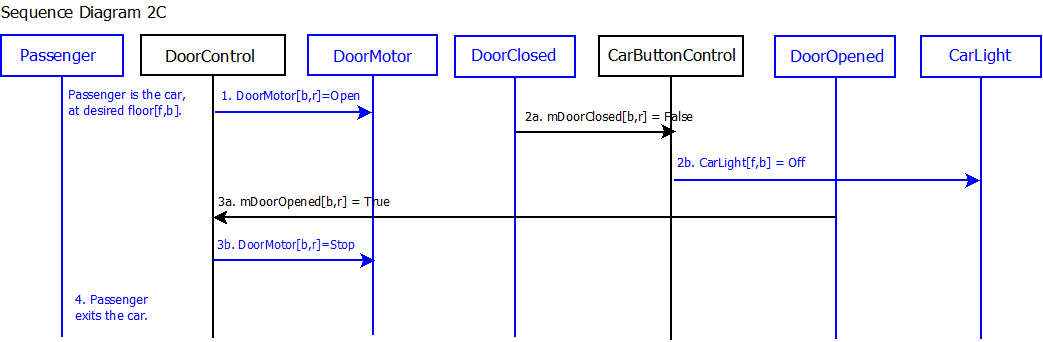
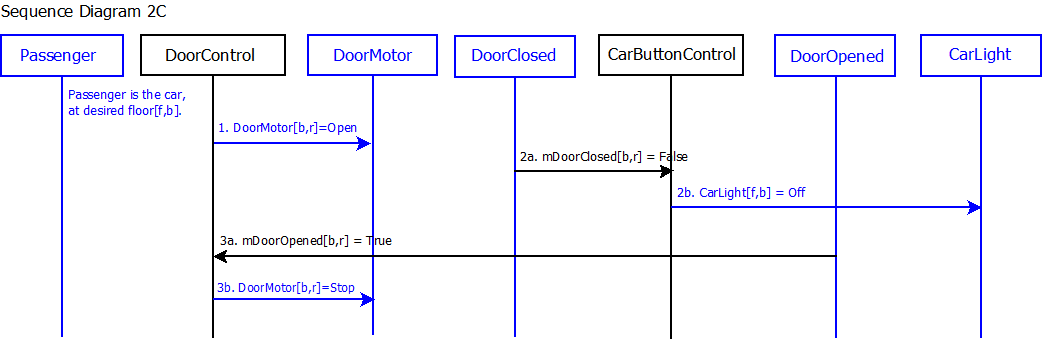
edit dia for 2c and 4

diff --git a/scen_sd/scen_sd.html b/scen_sd/scen_sd.html
@@ -278,8 +278,6 @@
         <li>CarLight[f,b] turns off.<br>
         </li>
         <li>Doors are fully opened.</li>
-        <li>Passenger exits the car.<br>
-        </li>
       </ol>
       <h3> Post-Conditions: </h3>
       <p> </p>
@@ -292,10 +290,9 @@
         <li>Elevator is at passenger's desired floor.</li>
         <li>At least one door is open.</li>
         <li>CarLight[f,b] is off.</li>
-        <li>Passenger is out of the car.<br>
-        </li>
       </ul>
       <h3> Sequence Diagram: </h3>
+      <img alt="2c" src="Wenhui_2c.png" height="342" width="1043"><br>
       <p><br>
       </p>
       <h2> <a name="usecase3" id="usecase3"></a>Use Case 3: Passenger
@@ -383,8 +380,11 @@
         <li>Elevator is at the passenger's hallway. </li>
         <li>Passenger is outside the elevator. </li>
       </ul>
+      <ul type="disc">
+      </ul>
       <h3> Sequence Diagram: </h3>
-      <img src="Wenhui_4.png" style="width:40%; height:30%;" alt="">
+      <br>
+      <img alt="4" src="Wenhui_4.png" height="340" width="578"><br>
       <h2> <a name="usecase5" id="usecase5"></a>Use Case 5: Passenger
         Triggers Door Reversal </h2>
       <h3> <a name="scenario5a" id="scenario5a"></a>Scenario 5A:
@@ -648,6 +648,7 @@
           between Stop and Slow for direction d. </li>
         <li>Car arrives at floor <b>g</b>. </li>
         <li>Drive() is set to <b>Stop</b> for diresction <b>Stop</b>.&nbsp;
+
 
 
 
